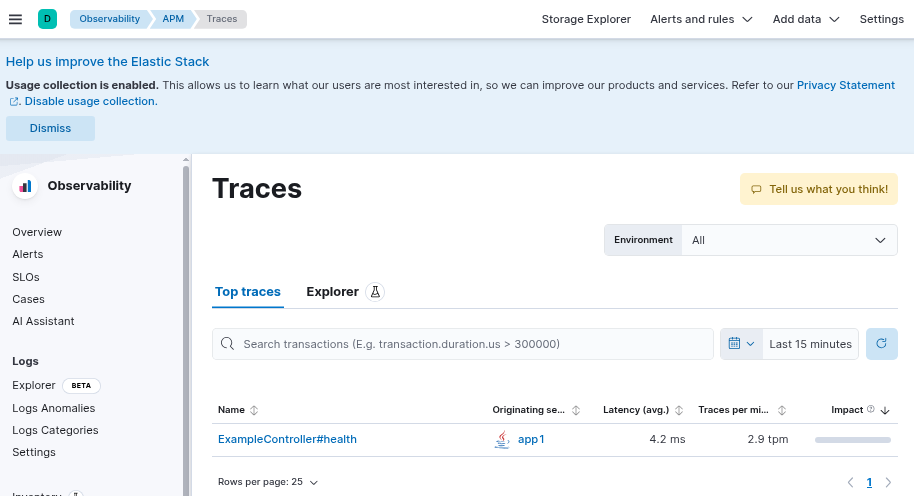
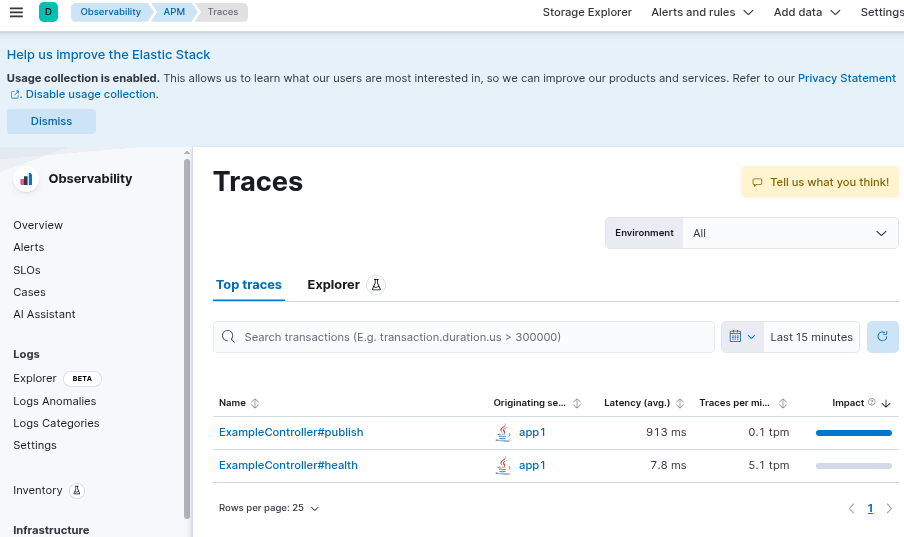
intermediate revision - fixed the code - enabled traceability

diff --git a/basic-elk-kafka-cluster/app1/src/main/java/example/controller/ExampleController.java b/basic-elk-kafka-cluster/app1/src/main/java/example/controller/ExampleController.java
@@ -1,16 +1,25 @@
 package example.controller;
 
+import org.springframework.http.HttpHeaders;
+
 /**
  * Copyright 2026 Serguei Kouzmine
  */
 
 import org.springframework.http.HttpStatus;
+import org.springframework.http.MediaType;
 import org.springframework.http.ResponseEntity;
 import org.springframework.kafka.core.KafkaTemplate;
+import org.springframework.messaging.support.MessageBuilder;
+import org.springframework.kafka.support.KafkaHeaders;
+
 import org.springframework.web.bind.annotation.GetMapping;
 import org.springframework.web.bind.annotation.PostMapping;
 import org.springframework.web.bind.annotation.RequestBody;
+import org.springframework.web.bind.annotation.RequestParam;
+import org.springframework.web.bind.annotation.PathVariable;
 import org.springframework.web.bind.annotation.RequestMapping;
+import org.springframework.web.bind.annotation.RequestMethod;
 import org.springframework.web.bind.annotation.RestController;
 
 @RestController
@@ -28,9 +37,14 @@ public class ExampleController {
 		return ResponseEntity.ok().build();
 	}
 
-	@PostMapping("/publish")
-	public ResponseEntity<Void> publish(@RequestBody String body) {
-		kafkaTemplate.send("demo-topic", body);
-		return ResponseEntity.ok().build();
+	@RequestMapping(method = RequestMethod.POST, value = "/publish", consumes = {
+			MediaType.APPLICATION_JSON_VALUE }, produces = { MediaType.TEXT_PLAIN_VALUE })
+	public ResponseEntity<String> publish(final @RequestParam String topic, final @RequestBody String payload) {
+		String message = String.format("published %d to %s", payload.length(), topic);
+		HttpHeaders headers = new HttpHeaders();
+		kafkaTemplate.send(MessageBuilder.withPayload(payload).setHeader(KafkaHeaders.TOPIC, topic).build());
+		System.err.println(message);
+		return new ResponseEntity<String>(message, headers, HttpStatus.OK);
+
 	}
 }

diff --git a/basic-elk-kafka-cluster/app2/src/main/java/example/service/ExampleService.java b/basic-elk-kafka-cluster/app2/src/main/java/example/service/ExampleService.java
@@ -5,13 +5,16 @@ package example.service;
  */
 
 import org.springframework.kafka.annotation.KafkaListener;
+import org.springframework.messaging.handler.annotation.Payload;
 import org.springframework.stereotype.Component;
 import org.springframework.stereotype.Service;
 
 @Service
 public class ExampleService {
 	@KafkaListener(topics = "demo-topic", groupId = "demo-group")
-	public void consume(String payload) {
+	// TODO: configure topics and groupId
+
+	public void consume(@Payload String payload) {
 		System.out.println("received: " + payload);
 	}
 }

diff --git a/basic-elk-kafka-cluster/README.md b/basic-elk-kafka-cluster/README.md
@@ -1,3 +1,107 @@
+### Usage
+```sh
+for F in app1 app2; do pushd  $F; mvn package ;   popd; done
+```
+
+```sh
+docker-compose up --build -d
+```
+```sh
+docker-compose ps
+```
+```txt
+   Name                   Command                  State                            Ports                     
+---------------------------------------------------------------------------------------------------------------
+apm-server      /usr/bin/tini -- /usr/loca ...   Up (healthy)   0.0.0.0:8200->8200/tcp,:::8200->8200/tcp       
+app1            java -javaagent:/home/elas ...   Up (healthy)   0.0.0.0:8080->8080/tcp,:::8080->8080/tcp       
+app2            java -javaagent:/home/elas ...   Up                                                            
+elasticsearch   /bin/tini -- /usr/local/bi ...   Up (healthy)   0.0.0.0:9200->9200/tcp,:::9200->9200/tcp,      
+                                                                9300/tcp                                       
+kafka           /etc/confluent/docker/run        Up             0.0.0.0:9092->9092/tcp,:::9092->9092/tcp       
+kibana          /bin/tini -- /usr/local/bi ...   Up (healthy)   0.0.0.0:5601->5601/tcp,:::5601->5601/tcp  
+```
+
+
+```sh
+curl -sv -XPOST "http://localhost:8080/basic/publish?topic=demo-topic"  -H 'Content-Type: application/json' -d '{"name": "new value"}'
+```
+```text
+published 21 to demo-topic
+```
+>NOTE:  currently only one topic `demo-topic` is known to `app2` and is har oded.
+```sh
+docker-compose logs app1
+```
+```text
+app1             | 2026-03-30 21:42:50.221  INFO 1 --- [io-8080-exec-10] o.a.kafka.common.utils.AppInfoParser     : Kafka commitId: f8c67dc3ae0a3265
+app1             | 2026-03-30 21:42:50.221  INFO 1 --- [io-8080-exec-10] o.a.kafka.common.utils.AppInfoParser     : Kafka startTimeMs: 1774906970218
+app1             | 2026-03-30 21:42:50.799  INFO 1 --- [ad | producer-1] org.apache.kafka.clients.Metadata        : [Producer clientId=producer-1] Resetting the last seen epoch of partition demo-topic-0 to 4 since the associated topicId changed from null to GuyR47BRTwmatE3NTgxTJQ
+app1             | 2026-03-30 21:42:50.803  INFO 1 --- [ad | producer-1] org.apache.kafka.clients.Metadata        : [Producer clientId=producer-1] Cluster ID: MkU3OEVBNTcwNTJENDM2Qg
+app1             | 2026-03-30 21:42:50.811  INFO 1 --- [ad | producer-1] o.a.k.c.p.internals.TransactionManager   : [Producer clientId=producer-1] ProducerId set to 1002 with epoch 0
+app1             | published 21 to demo-topic
+```
+```sh
+docker-compose exec kafka kafka-topics --bootstrap-server localhost:9092 --list
+```
+
+```text
+__consumer_offsets
+demo-topic
+your-topic
+```
+
+```sh
+docker-compose exec kafka kafka-console-consumer --bootstrap-server localhost:9092 --topic demo-topic --from-beginning
+```
+abort by `^C`
+```text
+{"name": "value"}
+{"name": "new value"}
+^CProcessed a total of 2 messages
+```
+
+```sh
+docker-compose logs app2 
+```
+```text
+docker-compose logs app2 
+app2             | received: {"name": "new value"}
+	
+```
+
+The Elastic APM is operational:
+
+[Kibana starting](screenshots/capture-kibana-launching.png)
+
+Both services are known to Elastic
+
+[Service Visibility](screenshots/capture-kibana-observability-apm-services.png)
+
+To  see the trace context propagation over Kafka find the operation that starts it
+
+[Traces Visibility](screenshots/capture-kibana-observability-apm-traces.png)
+
+
+One can see the trace in action
+
+Dy drilling into waterfall steps  one can confirm through  Kibana that both applications have the same
+
+
+in :
+
+role | property               value 
+-----|------------------- | ---------------------
+__app1__ | `span.id`             | `f89f900d2ef87c5a`	
+__app2__  | `parent.id`          | `f89f900d2ef87c5a`
+
+
+There is also a flow fragments:
+
+[Fragment1](screenshots\capture-flow-fragment1.png)
+
+[Fragment2](screenshots\capture-flow-fragment2.png)
+
+
 ### Troubleshooting
 
 ```text
@@ -51,17 +155,6 @@ kibana           | [2026-03-30T11:45:08.979+00:00][INFO ][plugins.screenshotting
 ```
 
 
-```txt
-   Name                   Command                  State                            Ports                     
----------------------------------------------------------------------------------------------------------------
-apm-server      /usr/bin/tini -- /usr/loca ...   Up (healthy)   0.0.0.0:8200->8200/tcp,:::8200->8200/tcp       
-app1            java -javaagent:/home/elas ...   Up (healthy)   0.0.0.0:8080->8080/tcp,:::8080->8080/tcp       
-app2            java -javaagent:/home/elas ...   Up                                                            
-elasticsearch   /bin/tini -- /usr/local/bi ...   Up (healthy)   0.0.0.0:9200->9200/tcp,:::9200->9200/tcp,      
-                                                                9300/tcp                                       
-kafka           /etc/confluent/docker/run        Up             0.0.0.0:9092->9092/tcp,:::9092->9092/tcp       
-kibana          /bin/tini -- /usr/local/bi ...   Up (healthy)   0.0.0.0:5601->5601/tcp,:::5601->5601/tcp  
-```
 ```sh
 curl -X POST "http://localhost:9200/testindex/_doc/1" -H "Content-Type: application/json" -d '{"foo":"bar"}'
 ```
@@ -236,59 +329,3 @@ app2             | 2026-03-30 19:01:19.382  INFO 1 --- [ntainer#0-0-C-1] o.a.k.c
 app2             | 2026-03-30 19:01:19.412  INFO 1 --- [ntainer#0-0-C-1] o.a.k.c.c.internals.SubscriptionState    : [Consumer clientId=consumer-demo-group-1, groupId=demo-group] Resetting offset for partition demo-topic-0 to position FetchPosition{offset=1, offsetEpoch=Optional.empty, currentLeader=LeaderAndEpoch{leader=Optional[kafka:9092 (id: 1 rack: null)], epoch=0}}.
 app2             | 2026-03-30 19:01:19.454  INFO 1 --- [ntainer#0-0-C-1] o.s.k.l.KafkaMessageListenerContainer    : demo-group: partitions assigned: [demo-topic-0]
 ```
-
-```sh
-docker-compose exec kafka kafka-topics --bootstrap-server localhost:9092 --list
-```
-
-```text
-__consumer_offsets
-demo-topic
-your-topic
-```
-
-```sh
-docker-compose exec kafka kafka-console-consumer --bootstrap-server localhost:9092 --topic demo-topic --from-beginning
-```
-abort by `^C`
-```text
-%7B%22name%22%3A+%22value%22%7D=
-%7B%22name%22%3A+%22value%22%7D=
-^CProcessed a total of 2 messages
-```
-
-```sh
-docker-compose logs app2 
-```
-```text
-app2             | received: %7B%22name%22%3A+%22value%22%7D=```
-
-```
-
-```sh
-for i in 1 2 3 4 5; do
-  curl -XPOST http://localhost:8080/basic/publish \
-    -H "Content-Type: application/json" \
-    -d "{\"id\":$i,\"name\":\"value$i\"}"
-done
-```
-
-The Elastic APM is operational:
-
-[Kibana starting](screenshots/capture-kibana-launching.png)
-
-
-Both services are known to Elastic
-
-[Service Visibility](screenshots/capture-kibana-observability-apm-services.png)
-
-However the trace context propagation over Kafka is not yet happening
-
-[Traces Visibility](screenshots/capture-kibana-observability-apm-traces.png)
-
-
-Obsertvability → APM → Services
-app1
-app2
-
-Observability → APM → Traces
